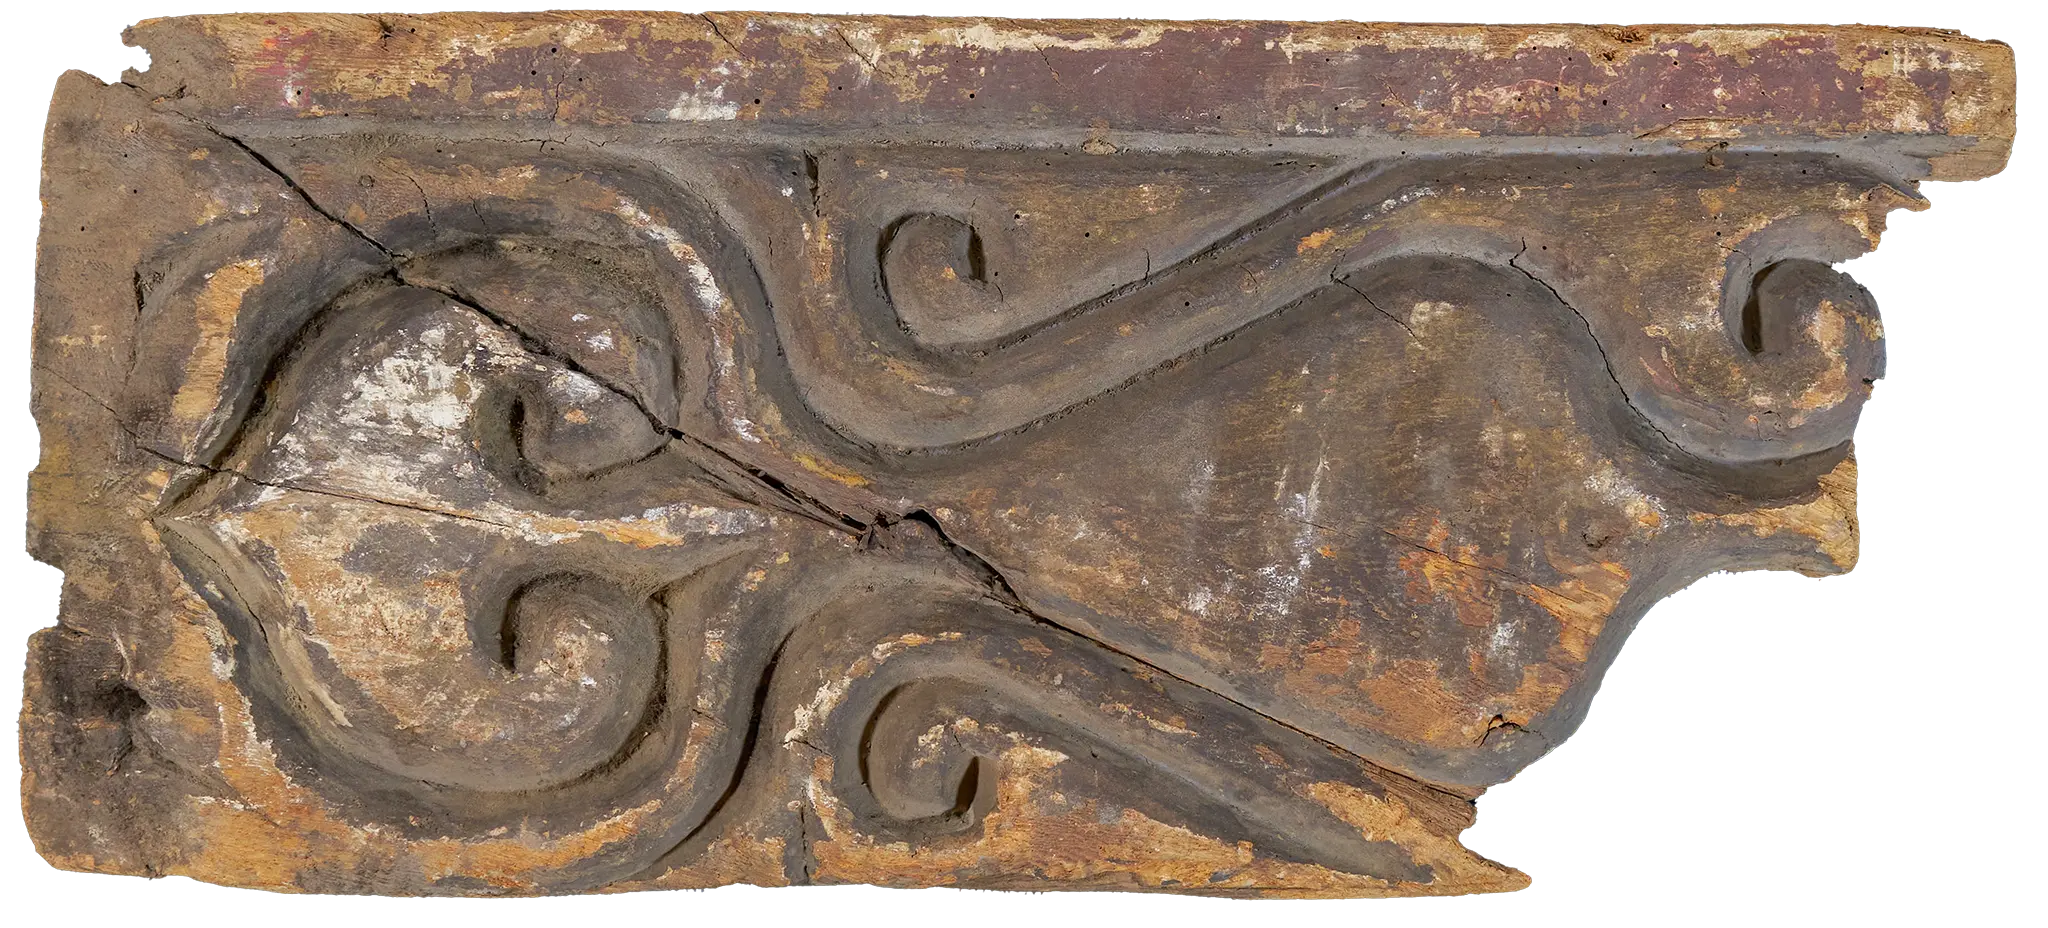
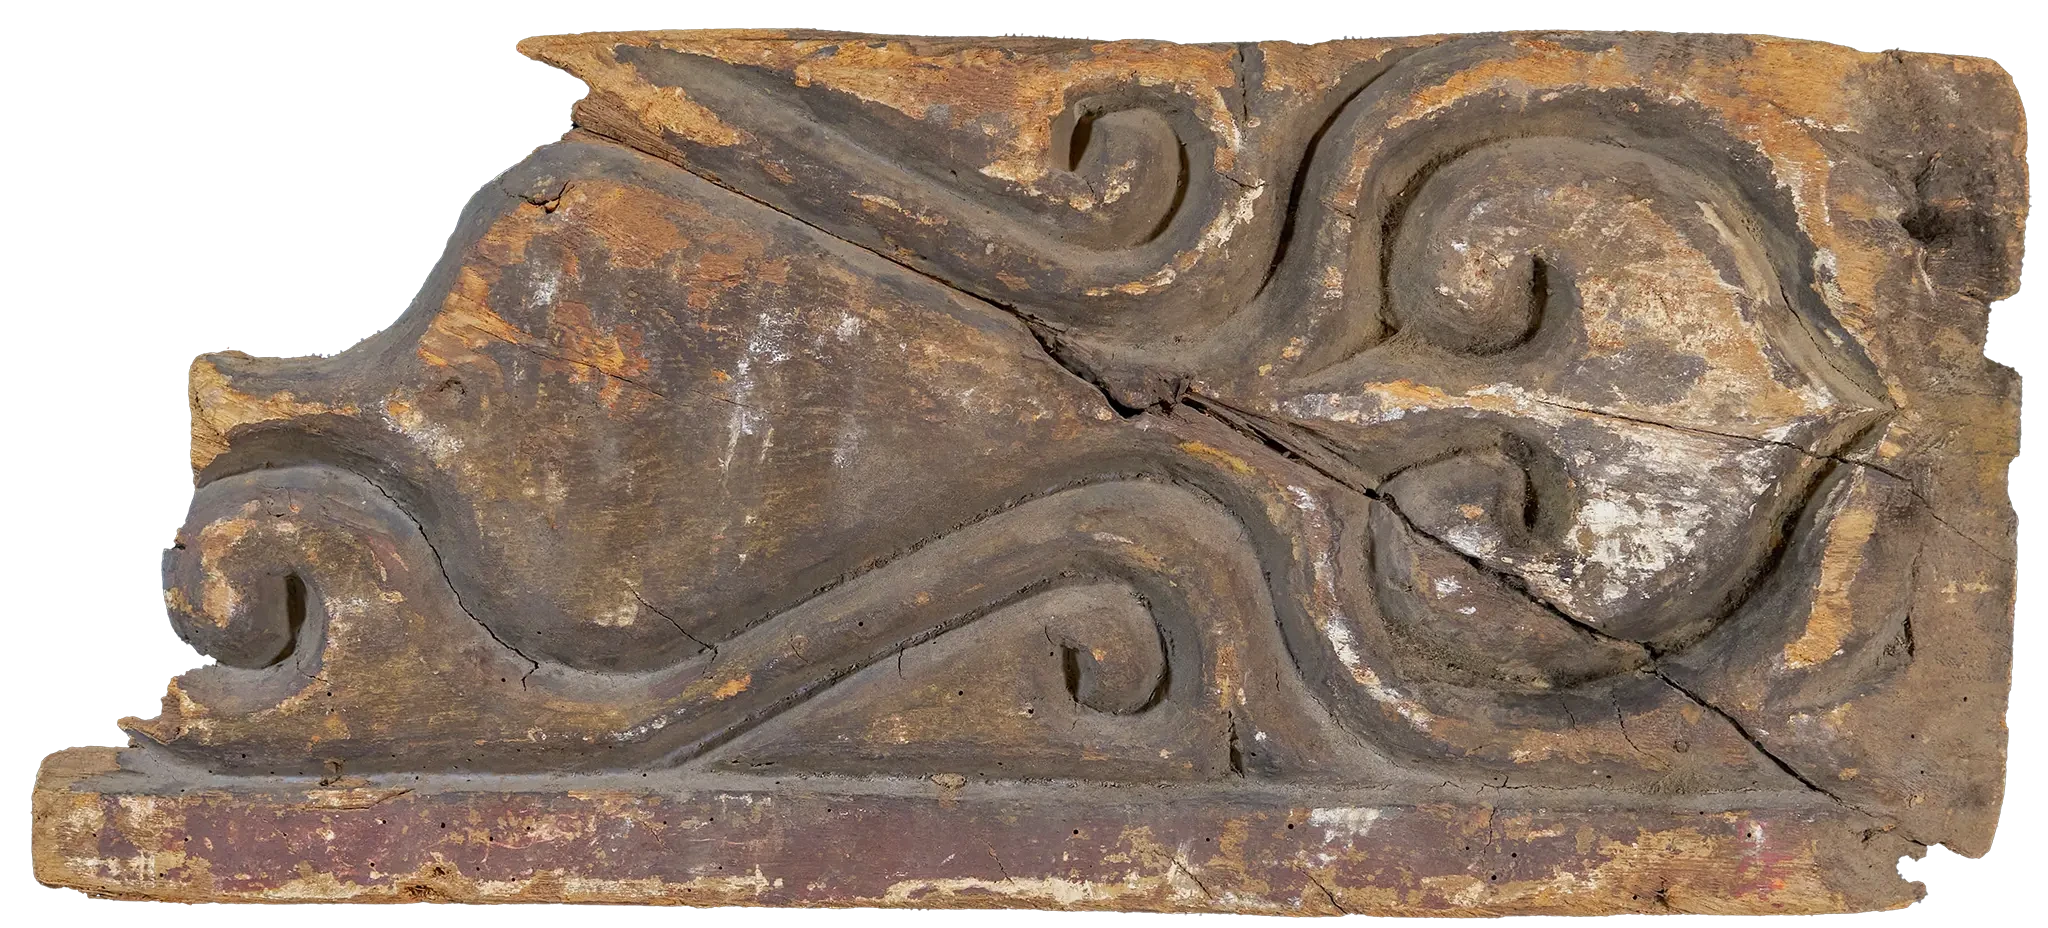
Rotate 12a 180; block saving photos on all visitor pages (right-click, long-press, drag)

diff --git a/artwork.html b/artwork.html
@@ -16,5 +16,8 @@
 </head>
 <body style="background:#06444C; color:#EAE8D8; font-family:sans-serif; text-align:center; padding-top:20%;">
     <p>جاري الانتقال لأحدث نسخة من العارض... جاري التحميل</p>
+<!-- منع حفظ الصور: كليك يمين، ضغطة طويلة على الموبايل، وسحب الصورة -->
+<style>img{-webkit-user-drag:none;user-drag:none;-webkit-touch-callout:none;-webkit-user-select:none;user-select:none}</style>
+<script>(function(){function isImg(t){return t&&(t.tagName==="IMG"||(t.closest&&t.closest("img")))}document.addEventListener("contextmenu",function(e){if(isImg(e.target))e.preventDefault()},true);document.addEventListener("dragstart",function(e){if(isImg(e.target))e.preventDefault()},true);})();</script>
 </body>
 </html>

diff --git a/c.html b/c.html
@@ -1936,5 +1936,8 @@
         }, 100);
     })();
 </script>
+<!-- منع حفظ الصور: كليك يمين، ضغطة طويلة على الموبايل، وسحب الصورة -->
+<style>img{-webkit-user-drag:none;user-drag:none;-webkit-touch-callout:none;-webkit-user-select:none;user-select:none}</style>
+<script>(function(){function isImg(t){return t&&(t.tagName==="IMG"||(t.closest&&t.closest("img")))}document.addEventListener("contextmenu",function(e){if(isImg(e.target))e.preventDefault()},true);document.addEventListener("dragstart",function(e){if(isImg(e.target))e.preventDefault()},true);})();</script>
 </body>
 </html>

diff --git a/scan-b.html b/scan-b.html
@@ -1947,5 +1947,8 @@
         }, 100);
     })();
 </script>
+<!-- منع حفظ الصور: كليك يمين، ضغطة طويلة على الموبايل، وسحب الصورة -->
+<style>img{-webkit-user-drag:none;user-drag:none;-webkit-touch-callout:none;-webkit-user-select:none;user-select:none}</style>
+<script>(function(){function isImg(t){return t&&(t.tagName==="IMG"||(t.closest&&t.closest("img")))}document.addEventListener("contextmenu",function(e){if(isImg(e.target))e.preventDefault()},true);document.addEventListener("dragstart",function(e){if(isImg(e.target))e.preventDefault()},true);})();</script>
 </body>
 </html>

diff --git a/n.html b/n.html
@@ -978,5 +978,8 @@
 
     load();
 </script>
+<!-- منع حفظ الصور: كليك يمين، ضغطة طويلة على الموبايل، وسحب الصورة -->
+<style>img{-webkit-user-drag:none;user-drag:none;-webkit-touch-callout:none;-webkit-user-select:none;user-select:none}</style>
+<script>(function(){function isImg(t){return t&&(t.tagName==="IMG"||(t.closest&&t.closest("img")))}document.addEventListener("contextmenu",function(e){if(isImg(e.target))e.preventDefault()},true);document.addEventListener("dragstart",function(e){if(isImg(e.target))e.preventDefault()},true);})();</script>
 </body>
 </html>

diff --git a/scan.html b/scan.html
@@ -849,5 +849,8 @@
 
     load();
 </script>
+<!-- منع حفظ الصور: كليك يمين، ضغطة طويلة على الموبايل، وسحب الصورة -->
+<style>img{-webkit-user-drag:none;user-drag:none;-webkit-touch-callout:none;-webkit-user-select:none;user-select:none}</style>
+<script>(function(){function isImg(t){return t&&(t.tagName==="IMG"||(t.closest&&t.closest("img")))}document.addEventListener("contextmenu",function(e){if(isImg(e.target))e.preventDefault()},true);document.addEventListener("dragstart",function(e){if(isImg(e.target))e.preventDefault()},true);})();</script>
 </body>
 </html>

diff --git a/index.html b/index.html
@@ -495,5 +495,8 @@
     };
 </script>
 
+<!-- منع حفظ الصور: كليك يمين، ضغطة طويلة على الموبايل، وسحب الصورة -->
+<style>img{-webkit-user-drag:none;user-drag:none;-webkit-touch-callout:none;-webkit-user-select:none;user-select:none}</style>
+<script>(function(){function isImg(t){return t&&(t.tagName==="IMG"||(t.closest&&t.closest("img")))}document.addEventListener("contextmenu",function(e){if(isImg(e.target))e.preventDefault()},true);document.addEventListener("dragstart",function(e){if(isImg(e.target))e.preventDefault()},true);})();</script>
 </body>
 </html>
